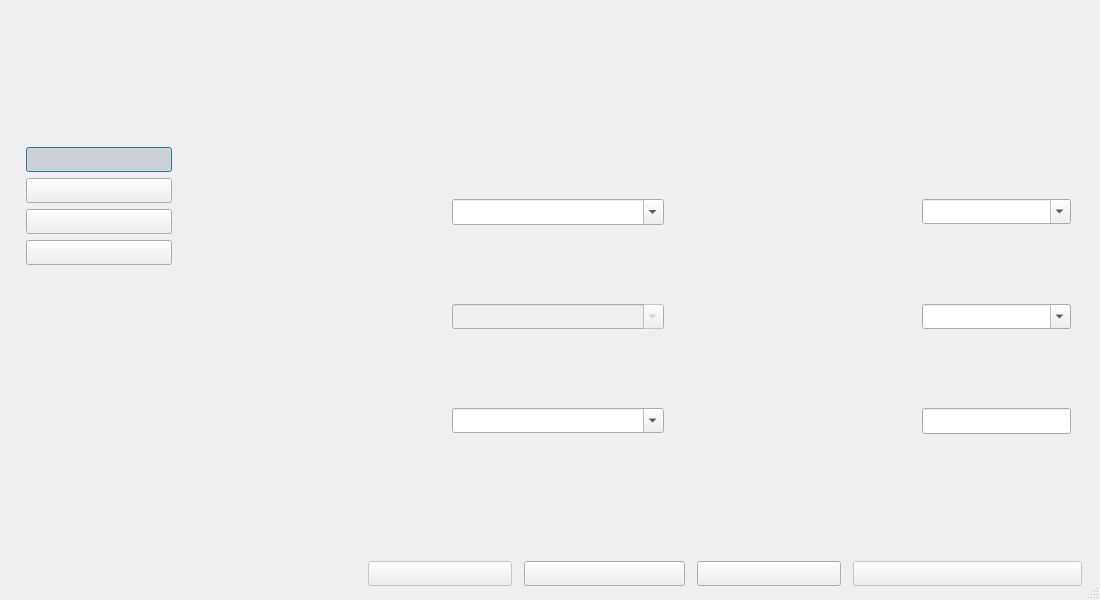
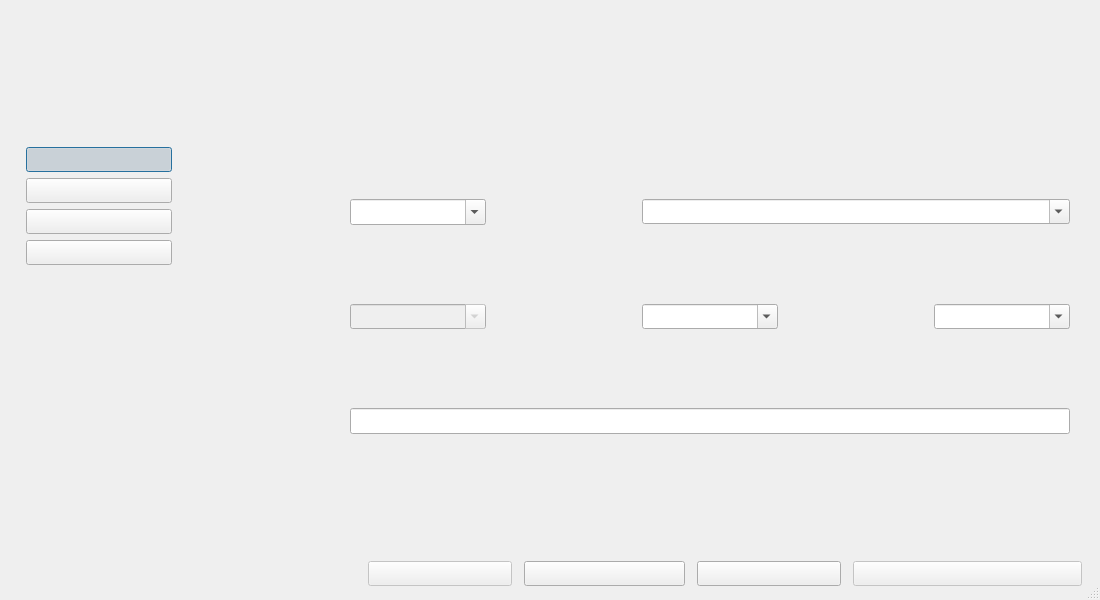
fix(ui): ubicar Semi/Acoplado al lado del Camion en la grilla (#272)
La primera version dejo el campo en una tercera fila, debajo de
Observaciones, lo que ademas generaba huecos verticales grandes
porque la grilla se repartia el alto del QFrame dentro del
QStackedWidget. Reordeno la grilla a 6 columnas (3 pares
label/field) para que:

  Fila 0: Fecha  | Chofer (span 3 cols)
  Fila 1: Transportista | Camion / patente | Semi / Acoplado
  Fila 2: Observaciones (span 5 cols)

Ademas fijo rowStretch=0 en las tres filas del header para que
queden compactas arriba del QFrame y no se estiren al alto
completo del stacked widget.

Regenera el screenshot del smoke de #131 con la nueva distribucion.

Changed region(s): [[0.4327, 0.72, 0.5873, 0.75], [0.5564, 0.33, 0.5873, 0.36], [0.4018, 0.33, 0.4327, 0.36]]

diff --git a/app/ui/desktop_app.py b/app/ui/desktop_app.py
@@ -1816,6 +1816,10 @@ class LoadOrderEntryDialog(QDialog):
         header_layout.setContentsMargins(12, 12, 12, 12)
         header_layout.setHorizontalSpacing(10)
         header_layout.setVerticalSpacing(8)
+        # Mantener las filas compactas arriba del QFrame; el stacked widget
+        # heredaba el alto y las dejaba repartidas en huecos grandes.
+        for row in range(3):
+            header_layout.setRowStretch(row, 0)
         self.order_date = QDateEdit()
         self.order_date.setObjectName("loadOrderDateInput")
         self.order_date.setCalendarPopup(True)
@@ -1836,18 +1840,20 @@ class LoadOrderEntryDialog(QDialog):
         self.observations_input = QLineEdit()
         self.observations_input.setObjectName("loadOrderObservationsInput")
         self.observations_input.setPlaceholderText("Observaciones generales")
+        # 6 columnas: tres pares label/field. Trailer queda al lado del
+        # camion, en la misma fila; observaciones baja a su propia fila.
         header_layout.addWidget(QLabel("Fecha"), 0, 0)
         header_layout.addWidget(self.order_date, 0, 1)
         header_layout.addWidget(QLabel("Chofer"), 0, 2)
-        header_layout.addWidget(self.driver_combo, 0, 3)
+        header_layout.addWidget(self.driver_combo, 0, 3, 1, 3)
         header_layout.addWidget(QLabel("Transportista"), 1, 0)
         header_layout.addWidget(self.carrier_combo, 1, 1)
         header_layout.addWidget(QLabel("Camion / patente"), 1, 2)
         header_layout.addWidget(self.truck_combo, 1, 3)
-        header_layout.addWidget(QLabel("Semi / Acoplado"), 2, 0)
-        header_layout.addWidget(self.trailer_combo, 2, 1)
-        header_layout.addWidget(QLabel("Observaciones"), 2, 2)
-        header_layout.addWidget(self.observations_input, 2, 3)
+        header_layout.addWidget(QLabel("Semi / Acoplado"), 1, 4)
+        header_layout.addWidget(self.trailer_combo, 1, 5)
+        header_layout.addWidget(QLabel("Observaciones"), 2, 0)
+        header_layout.addWidget(self.observations_input, 2, 1, 1, 5)
         self.step_stack.addWidget(header)
 
         destination = QFrame()
